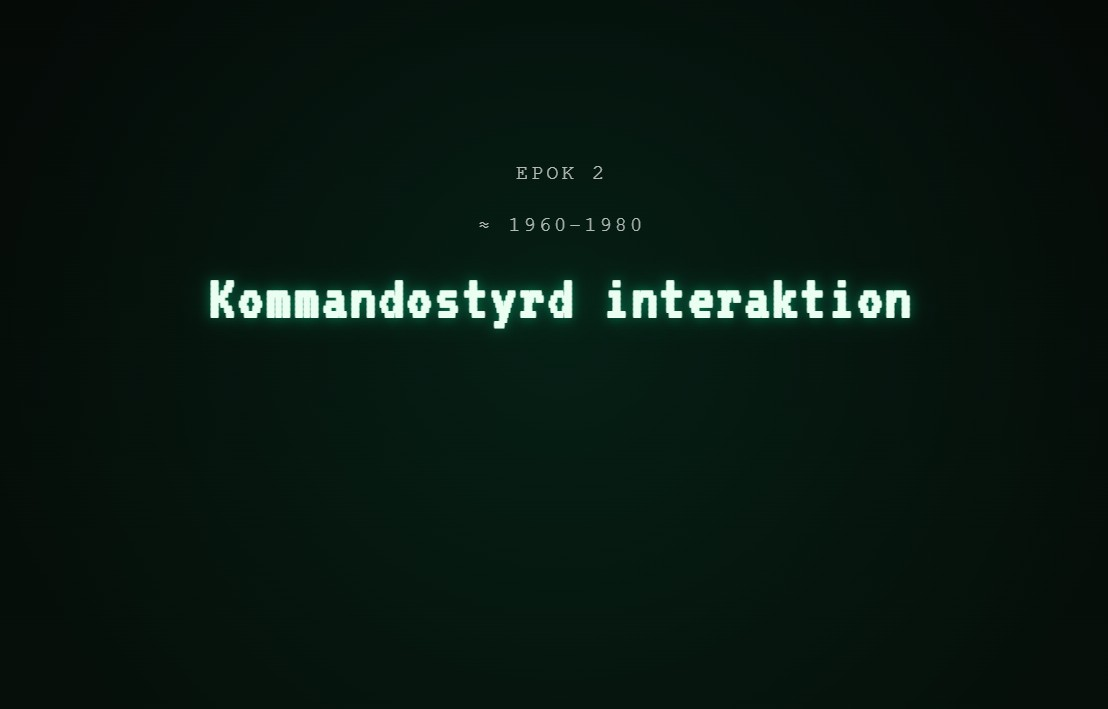
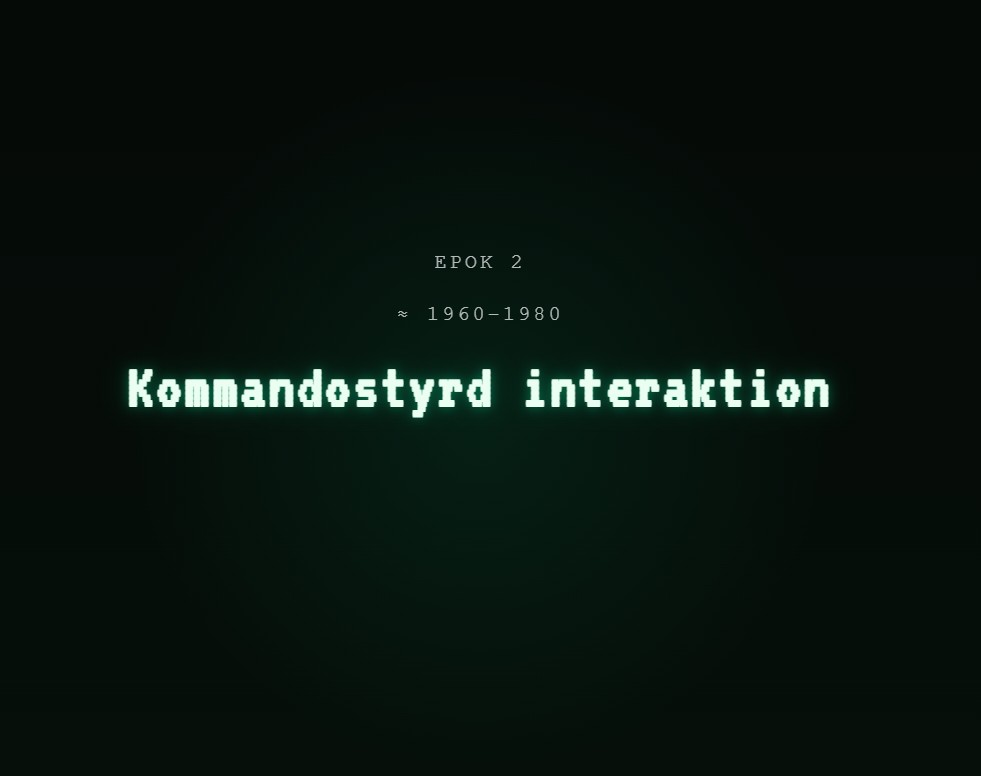
fler bilder

Changed region(s): [[0.1223, 0.3724, 0.8563, 0.5585], [0.4281, 0.3103, 0.581, 0.3413], [0.4587, 0.2172, 0.5199, 0.2482]]

diff --git a/utstallning.html b/utstallning.html
@@ -102,7 +102,8 @@
                             <ul class="list-unstyled">
                                 <li>Research och analys: omvärldsbevakning, charetter, utforskning genom design</li>
                                 <li>Problemområde: Människor saknar kunskap om människa-datorinteraktion och hur den har utvecklats över tid.</li>
-                                <li>Idégenerering: skisser, test av koncept, prototyper</li>
+                                <li>Idégenerering: skisser, test av koncept, prototyper med hjälp av ChatGPT</li>
+                                <li>Kodning skedde med hjälp av ChatGPT där information om hur designen skulle vara matades in och översattes till kod</li>
                                 <li>Användbarhetsprototypande: prototyperna testades med två användare och itererades kontinuerligt.</li>
                             </ul>
                             <div class="container mt-4">
@@ -132,10 +133,7 @@
                                     <!-- Bild 3: vanlig bild utan länk -->
                                     <div class="col-md-4 mb-4">
                                         <div class="project-img thumbnail-img">
-                                            <img src="images/concept.jpg" class="img-fluid rounded" alt="Designkoncept">
-                                            <div class="pdf-overlay">
-                                            <p>Designkonceptets visuella riktning</p>
-                                            </div>
+                                            <img src="images/chat.jpg" class="img-fluid rounded" alt="ChatGPT">
                                         </div>
                                     </div>
                                 </div>

diff --git a/dsfive.css b/dsfive.css
@@ -213,7 +213,7 @@ body.loaded .scroll-hint {
 
 .project-img-large {
   height: 660px;
-  width: 660px;
+  width: 100%;
 }
 
 .pdf-overlay {
